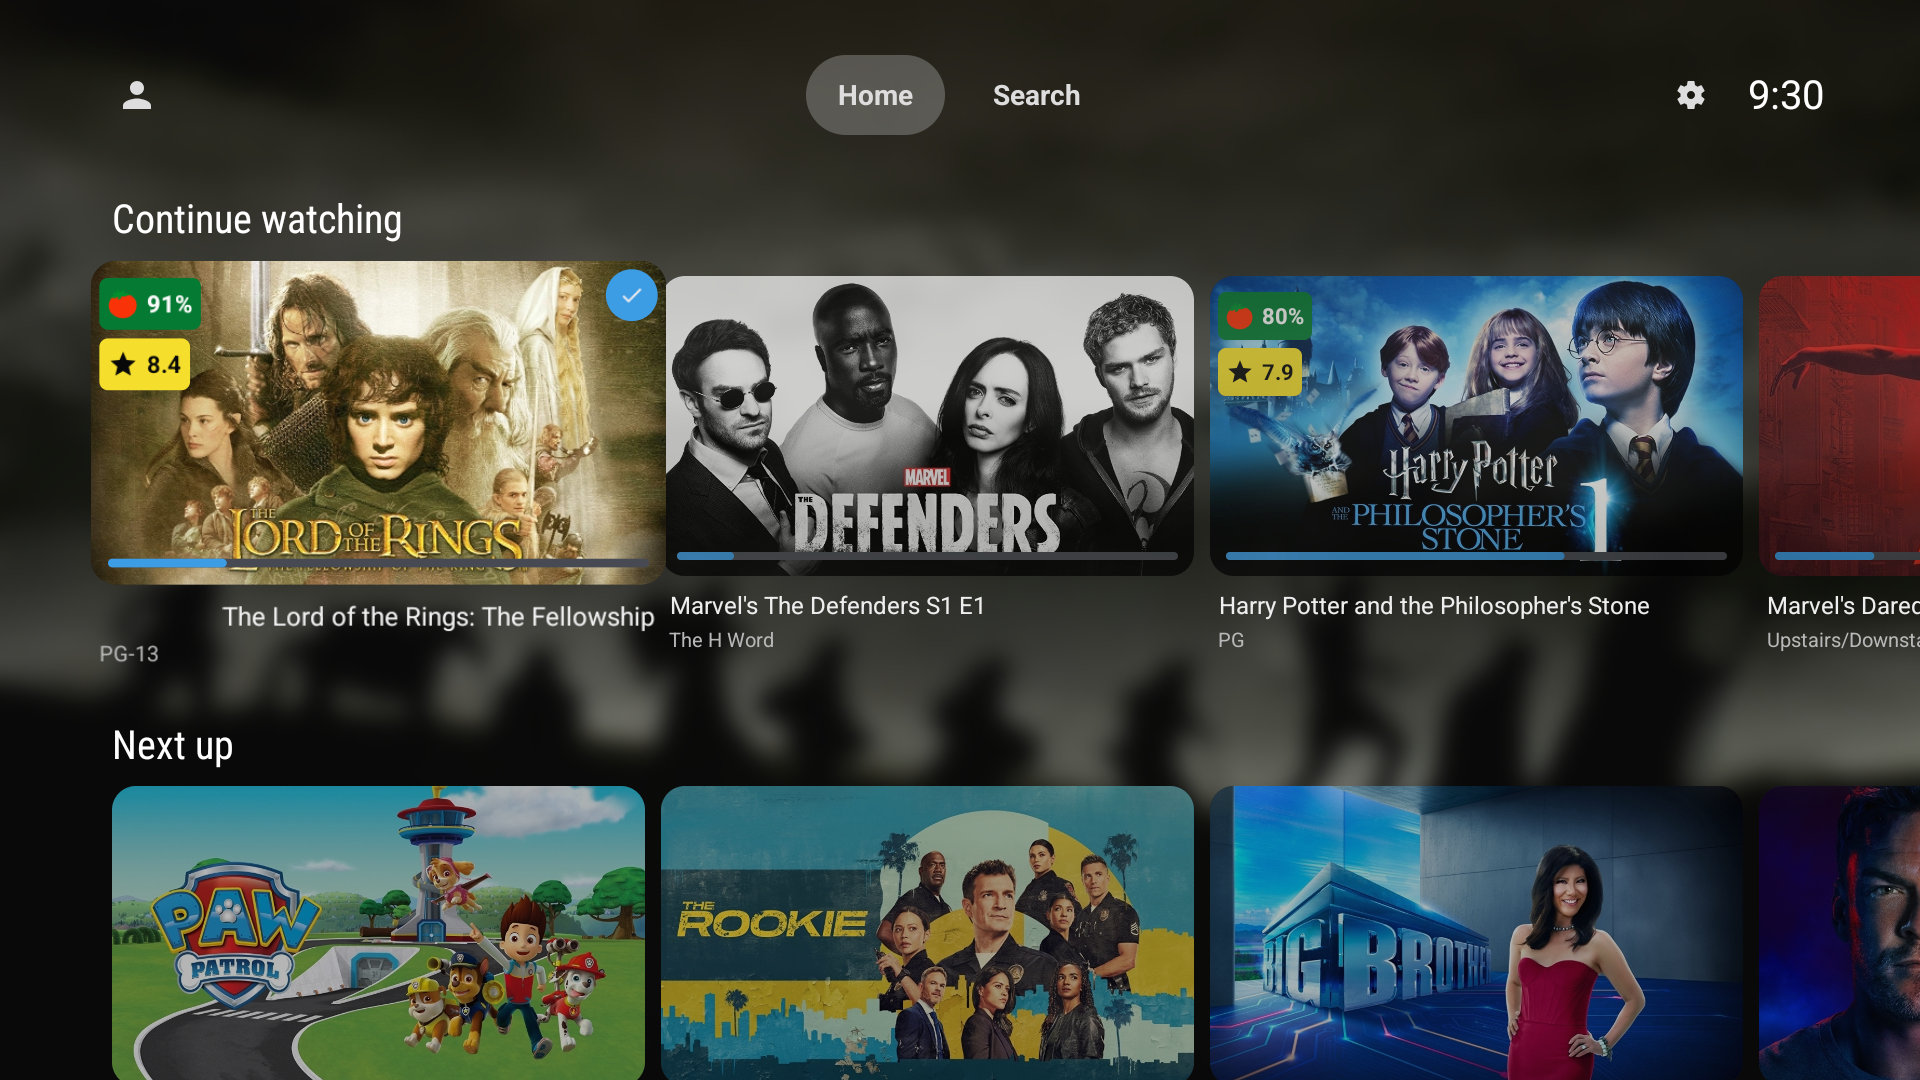
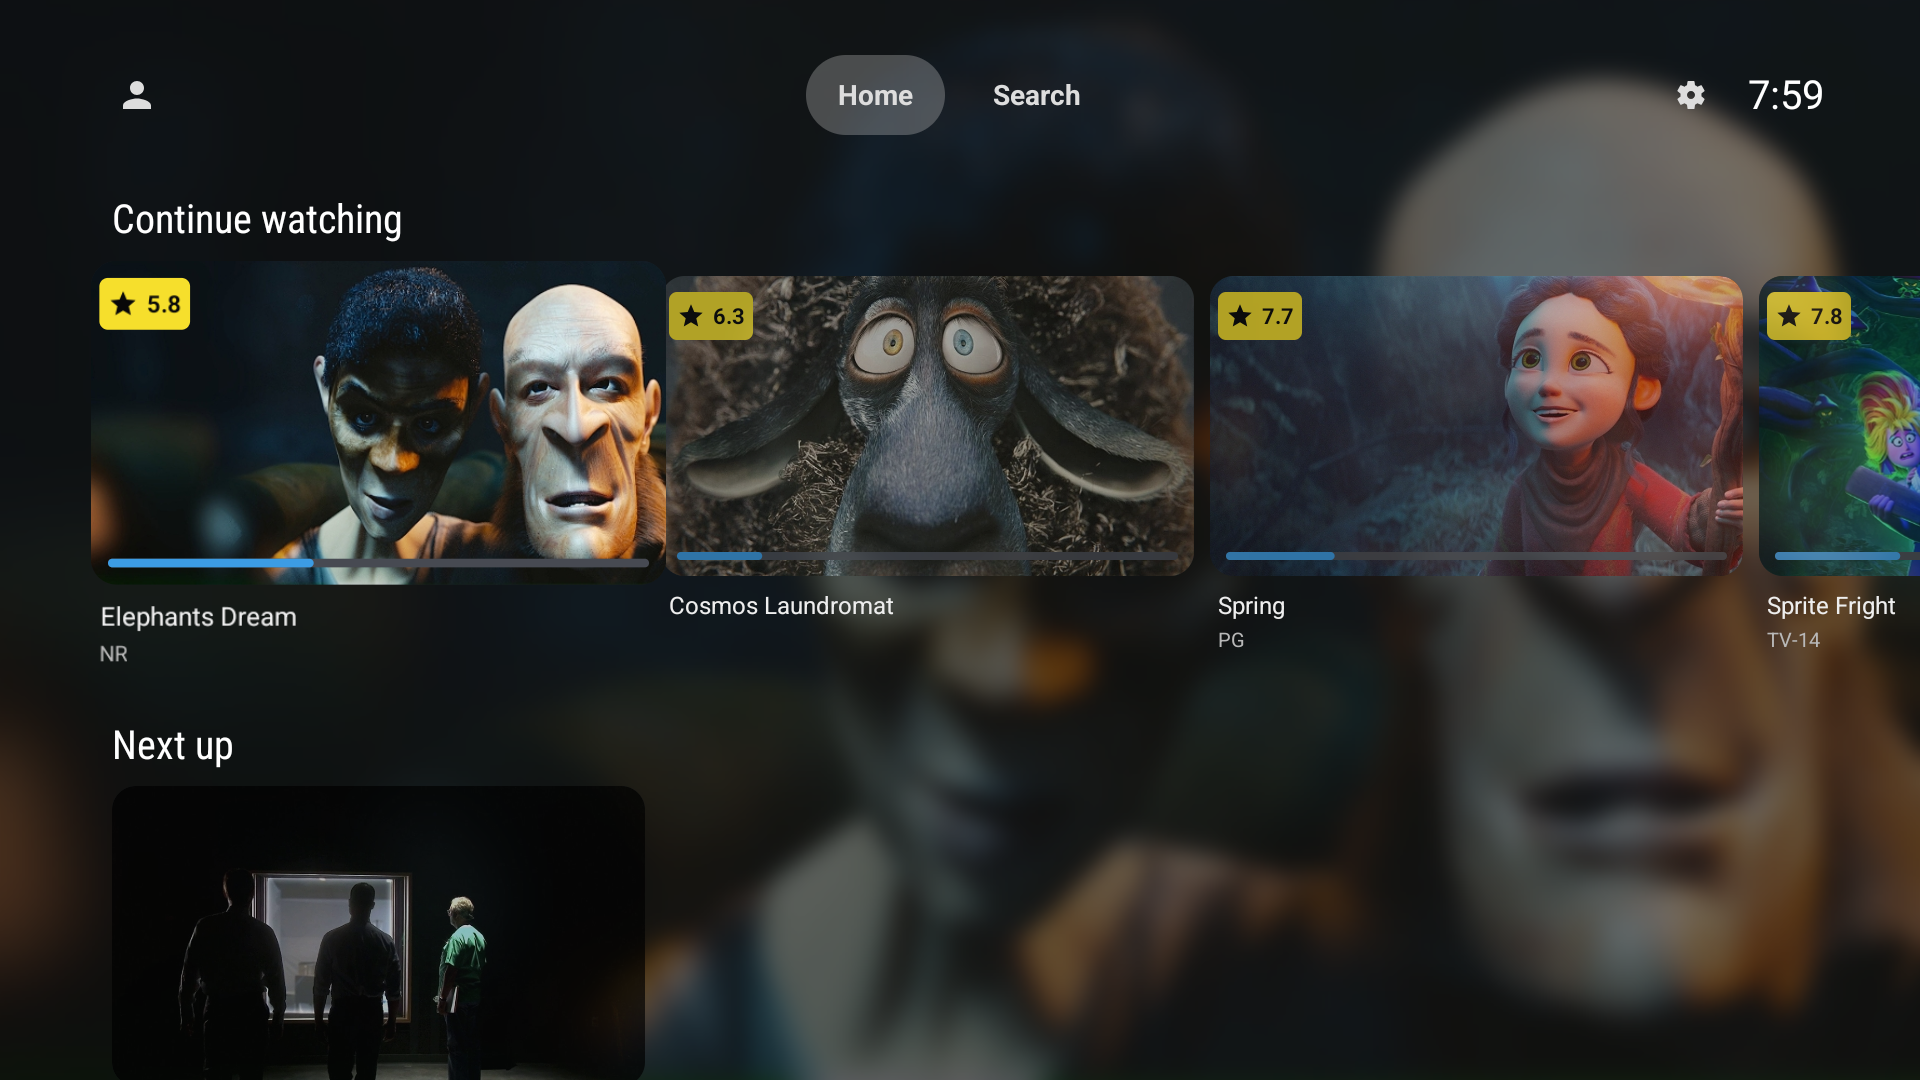
Replace README screenshots with Creative Commons demo content
The old screenshots showed copyrighted movie and TV artwork. Swap them for
the captures used on getlumafin.com, which use Blender open movies and
Pioneer One, add the home customization panel, and credit the films as
their licenses require.

diff --git a/README.md b/README.md
@@ -39,6 +39,16 @@ This is not an officially supported Jellyfin project - it's built for personal u
 | --- | --- |
 | <img alt="LumaFin movie details screen" src="docs/screenshots/movie-details.png" /> | <img alt="LumaFin episode details screen" src="docs/screenshots/episode-details.png" /> |
 
+### Home customization
+
+<p align="center">
+  <img alt="LumaFin home customization panel with a visibility toggle and move handle on each section" src="docs/screenshots/home-customization.png" width="100%" />
+</p>
+
+<sub>Screenshots show Creative Commons films: Elephants Dream, Cosmos Laundromat, Spring and Sprite Fright
+© Blender Foundation ([studio.blender.org](https://studio.blender.org/films/)), CC BY; Pioneer One by Josh Bernhard and
+Bracey Smith, Creative Commons.</sub>
+
 ## What's different from upstream
 
 - **Landscape, thumbnail-first artwork** - content cards throughout the app use a Thumbnail → Backdrop → Primary
